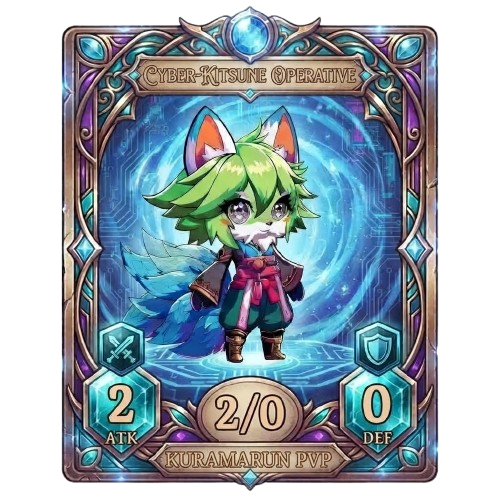
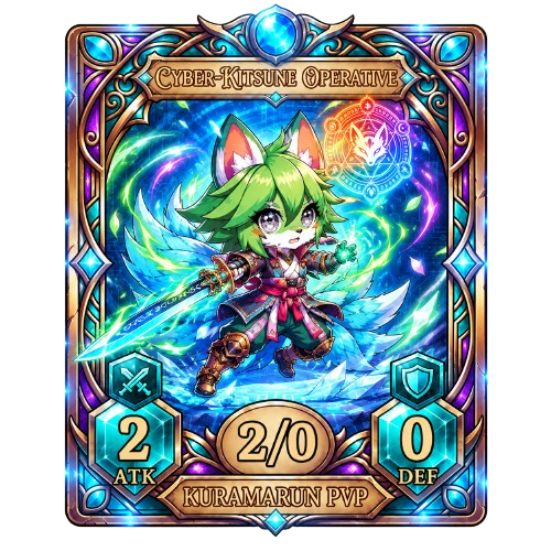
fix: alinear catalogo de cartas y actualizar arte en CARDS
- Elimina el subtitulo "(Talon Zhen)" (residuo visual sin uso en el
  motor) de cards_catalog.py y regenera cards_database.json: ya no
  aparece en el Catalogo de Cartas.
- El Catalogo ahora fija la altura de la imagen (object-fit: contain),
  el nombre y la nota de habilidad (cura/contraataque), y recorta la
  descripcion a una caja de altura fija con elipsis si es mas larga
  que las demas -- las 4 columnas de la parrilla quedan siempre del
  mismo tamano y alineadas horizontalmente.
- Sube el arte actualizado de las 3 operativas Kuramarun y los
  descartes nuevos en CARDS/CARDS_NO_USE.

diff --git a/engine/cards_catalog.py b/engine/cards_catalog.py
@@ -122,7 +122,6 @@ REAL_ART_CARDS: list[Card] = [
         category=CardCategory.STANDARD,
         atk=0, defense=2,
         element=Element.EARTH,
-        subtitle="(Talon Zhen)",
         description="Defensa Ligera — erizo de tierra furioso.",
         image_path="CARDS/ENEMIGOS1-removebg-preview.png",
     ),
@@ -133,7 +132,6 @@ REAL_ART_CARDS: list[Card] = [
         category=CardCategory.STANDARD,
         atk=3, defense=0,
         element=Element.AIR,
-        subtitle="(Talon Zhen)",
         description="Ataque Puro — depredador aéreo de las sombras.",
         image_path="CARDS/ENEMIGOS2-removebg-preview.png",
     ),
@@ -144,7 +142,6 @@ REAL_ART_CARDS: list[Card] = [
         category=CardCategory.STANDARD,
         atk=0, defense=1,
         element=Element.NATURE,
-        subtitle="(Talon Zhen)",
         description="Defensa Pura Mínima — brote furioso recién germinado.",
         image_path="CARDS/ENEMIGOS3-removebg-preview.png",
     ),
@@ -155,7 +152,6 @@ REAL_ART_CARDS: list[Card] = [
         category=CardCategory.STANDARD,
         atk=0, defense=3,
         element=Element.FIRE,
-        subtitle="(Talon Zhen)",
         description="Defensa Pura / Escudo — golpeador volcánico.",
         image_path="CARDS/ENEMIGOS4-removebg-preview.png",
     ),
@@ -166,7 +162,6 @@ REAL_ART_CARDS: list[Card] = [
         category=CardCategory.STANDARD,
         atk=0, defense=2,
         element=Element.ICE,
-        subtitle="(Talon Zhen)",
         description="Híbrida Defensiva (variante de atributos: 0/2) — baluarte glacial.",
         image_path="CARDS/ENEMIGOS5-removebg-preview.png",
     ),
@@ -177,7 +172,6 @@ REAL_ART_CARDS: list[Card] = [
         category=CardCategory.STANDARD,
         atk=2, defense=2,
         element=Element.WATER,
-        subtitle="(Talon Zhen)",
         description="Híbrida (variante de atributos: 2/2) — guardián abisal de escamas afiladas.",
         image_path="CARDS/Namasu-removedg-removebg-preview.png",
     ),
@@ -188,7 +182,6 @@ REAL_ART_CARDS: list[Card] = [
         category=CardCategory.RARE,
         atk=3, defense=3,
         element=Element.WATER,
-        subtitle="(Talon Zhen)",
         description="Ataque/Defensa Avanzado — demonio de río, potencia simétrica máxima.",
         image_path="CARDS/ENEMIGOS7-removebg-preview.png",
     ),
@@ -200,7 +193,6 @@ REAL_ART_CARDS: list[Card] = [
         category=CardCategory.STANDARD,
         atk=3, defense=0,
         element=Element.FIRE,
-        subtitle="(Talon Zhen)",
         description="Ataque Puro Alternativo — serpiente de ocho cabezas envuelta en fuego.",
         image_path="CARDS/descargaaaa.png",
     ),
@@ -211,7 +203,6 @@ REAL_ART_CARDS: list[Card] = [
         category=CardCategory.STANDARD,
         atk=1, defense=1,
         element=Element.SHADOW,
-        subtitle="(Talon Zhen)",
         description="Híbrida Ligera (variante de atributos: 1/1) — gato fantasma escurridizo entre sombras.",
         image_path="CARDS/776ba0e4-03aa-49d1-a3a7-515de32713de-removebg-preview.png",
     ),
@@ -223,7 +214,6 @@ REAL_ART_CARDS: list[Card] = [
         atk=0, defense=0,
         ability=Ability.HEAL_POTION,
         element=Element.ICE,
-        subtitle="(Talon Zhen)",
         description="Poción Curativa Menor — el espíritu zorro de escarcha bloquea la zona y restaura vitalidad básica.",
         heal_amount=2,
         image_path="CARDS/9a7bf3c9-adcb-465b-9a75-ebd6fcb65f7a-removebg-preview.png",
@@ -236,7 +226,6 @@ REAL_ART_CARDS: list[Card] = [
         atk=0, defense=0,
         ability=Ability.HEAL_POTION,
         element=Element.ICE,
-        subtitle="(Talon Zhen)",
         description="Poción Curativa Moderada — la emperatriz helada congela el golpe y lo convierte en vida.",
         heal_amount=4,
         image_path="CARDS/descarga.png",
@@ -249,7 +238,6 @@ REAL_ART_CARDS: list[Card] = [
         atk=0, defense=0,
         ability=Ability.HEAL_POTION,
         element=Element.FIRE,
-        subtitle="(Talon Zhen)",
         description="Poción Curativa Mayor — el espíritu de las nueve llamas bloquea el daño y maximiza la curación.",
         heal_amount=6,
         image_path="CARDS/KURAMARUN7.png",
@@ -313,7 +301,6 @@ REAL_ART_CARDS: list[Card] = [
         category=CardCategory.STANDARD,
         atk=0, defense=3,
         element=Element.NATURE,
-        subtitle="(Talon Zhen)",
         description="Defensa Pura / Escudo Alternativa — ent de corteza y hierro, inquebrantable.",
         image_path="CARDS/ironcarapace.png",
     ),
@@ -324,7 +311,6 @@ REAL_ART_CARDS: list[Card] = [
         category=CardCategory.STANDARD,
         atk=2, defense=1,
         element=Element.WATER,
-        subtitle="(Talon Zhen)",
         description="Híbrida Ofensiva Táctica — tortuga ninja, doble espada y reflejos precisos.",
         image_path="CARDS/twinbladetactician-removebg-preview.png",
     ),
@@ -336,7 +322,6 @@ REAL_ART_CARDS: list[Card] = [
         atk=2, defense=0,
         ability=Ability.PIERCING,
         element=Element.EARTH,
-        subtitle="(Talon Zhen)",
         description="Rompedefensas Directo — samurái rinoceronte, embiste y atraviesa cualquier escudo.",
         image_path="CARDS/rhino-removebg-preview.png",
     ),
@@ -371,7 +356,6 @@ REAL_ART_CARDS: list[Card] = [
         atk=1, defense=1,
         ability=Ability.COUNTER,
         element=Element.SHADOW,
-        subtitle="(Talon Zhen)",
         description="Contraataque de Repsilo Avanzado — precisión de espadachín, responde antes de que el golpe llegue.",
         counter_damage=3,
         image_path="CARDS/sushisamurai-removebg-preview.png",

diff --git a/engine/pvp_dashboard.py b/engine/pvp_dashboard.py
@@ -160,28 +160,31 @@ def render_gallery(catalog_dicts: list[dict]) -> None:
         return
 
     st.divider()
-    cols = st.columns(4)
-    for i, card_dict in enumerate(filtered):
-        with cols[i % 4]:
-            img = card_image_path(card_dict)
-            if img:
-                st.image(str(img), width="stretch")
-            else:
-                st.caption("🖼 (sin imagen)")
-            st.markdown(f"**{card_dict['name']}**")
-            if card_dict.get("subtitle"):
-                st.caption(card_dict["subtitle"])
-            st.caption(f"⚡ Coste {card_dict['cost_energy']} · {card_dict['atk']} ATK / {card_dict['defense']} DEF")
-            st.caption(f"🏷 {CATEGORY_LABELS.get(card_dict['category'], card_dict['category'])} · {card_type_label(card_dict)}")
-            if card_dict.get("ability") == "heal_potion" and card_dict.get("heal_amount"):
-                st.caption(f"💚 Cura mínimo {card_dict['heal_amount']} HP")
-            if card_dict.get("ability") == "counter" and card_dict.get("counter_damage"):
-                st.caption(f"↩ Devuelve {card_dict['counter_damage']} de daño")
-            if card_dict.get("description"):
-                st.caption(card_dict["description"])
-            if card_dict.get("is_placeholder"):
-                st.caption("🧩 Arte pendiente (placeholder)")
-            st.divider()
+    with st.container(key="gallery_grid"):
+        cols = st.columns(4)
+        for i, card_dict in enumerate(filtered):
+            with cols[i % 4]:
+                img = card_image_path(card_dict)
+                if img:
+                    st.image(str(img), width="stretch")
+                else:
+                    st.caption("🖼 (sin imagen)")
+                st.markdown(f"<div class='card-name'>{html.escape(card_dict['name'])}</div>", unsafe_allow_html=True)
+                st.caption(f"⚡ Coste {card_dict['cost_energy']} · {card_dict['atk']} ATK / {card_dict['defense']} DEF")
+                st.caption(f"🏷 {CATEGORY_LABELS.get(card_dict['category'], card_dict['category'])} · {card_type_label(card_dict)}")
+                ability_note = ""
+                if card_dict.get("ability") == "heal_potion" and card_dict.get("heal_amount"):
+                    ability_note = f"💚 Cura mínimo {card_dict['heal_amount']} HP"
+                elif card_dict.get("ability") == "counter" and card_dict.get("counter_damage"):
+                    ability_note = f"↩ Devuelve {card_dict['counter_damage']} de daño"
+                st.markdown(f"<div class='gallery-ability'>{ability_note or '&nbsp;'}</div>", unsafe_allow_html=True)
+                st.markdown(
+                    f"<div class='gallery-desc'>{html.escape(card_dict.get('description') or '')}</div>",
+                    unsafe_allow_html=True,
+                )
+                if card_dict.get("is_placeholder"):
+                    st.caption("🧩 Arte pendiente (placeholder)")
+                st.divider()
 
 
 # --------------------------------------------------------------------------- #
@@ -647,6 +650,39 @@ st.markdown(
         min-height: 1.3em;
         line-height: 1.3em;
         margin: 0.1rem 0 0.2rem;
+    }
+    /* Catálogo de cartas: imagen a altura fija (object-fit: contain, en vez
+       de estirar al ancho y dejar que la relación de aspecto de cada arte
+       decida la altura de la fila) y cajas de texto de altura fija para la
+       nota de habilidad y la descripción (recortada con línea de puntos si
+       es más larga que otras), para que las 4 columnas de la parrilla
+       queden siempre alineadas y del mismo tamaño. */
+    [class*="st-key-gallery_grid"] [data-testid="stImage"] img {
+        height: 230px !important;
+        width: auto !important;
+        max-width: 100% !important;
+        object-fit: contain;
+        display: block;
+        margin: 0 auto;
+    }
+    .gallery-ability {
+        font-size: 0.8rem;
+        color: rgb(107, 163, 107);
+        min-height: 1.3em;
+        line-height: 1.3em;
+        margin: 0.15rem 0;
+    }
+    .gallery-desc {
+        font-size: 0.78rem;
+        color: rgba(135, 135, 135, 0.95);
+        min-height: 3.3em;
+        max-height: 3.3em;
+        line-height: 1.1em;
+        overflow: hidden;
+        display: -webkit-box;
+        -webkit-line-clamp: 3;
+        -webkit-box-orient: vertical;
+        margin-top: 0.2rem;
     }
     .combat-feed {
         background: rgba(135, 135, 135, 0.08);
